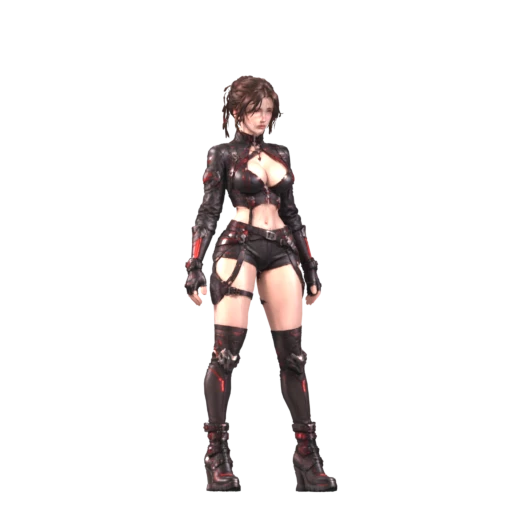
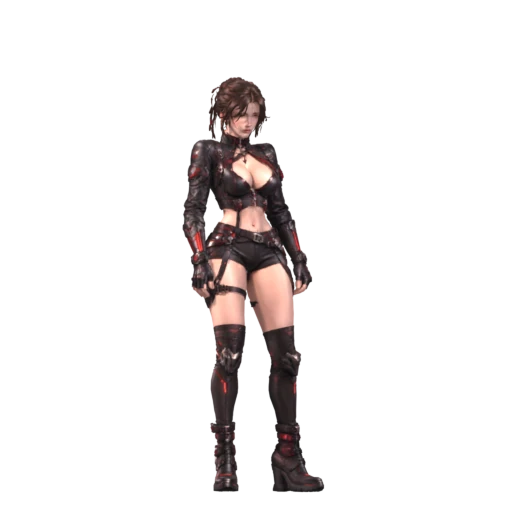
feat(wardrobe): beş karakter oyuna eklendi
Sis Dedektifi, Jinling Gölgesi, Kızıl Yemin, Neon Kuzgun ve Krom Şerif için
8 yön yürüme/durma kareleri ve 360° dönüş render edildi; hepsi markette
satın alınabilir ve gardıropta giyilebilir.

Changed region(s): [[0.3438, 0.125, 0.6562, 0.9688]]

diff --git a/frontend/src/config/outfits.ts b/frontend/src/config/outfits.ts
@@ -36,7 +36,7 @@ export const OUTFITS: Outfit[] = [
     description: 'Uzun palto, fötr şapka ve cebinde saat. Sisli sokaklarda hiçbir ayrıntı gözünden kaçmaz.',
     price: 700,
     rarity: 'rare',
-    ready: false,
+    ready: true,
   },
   {
     id: 'china_girl',
@@ -45,7 +45,7 @@ export const OUTFITS: Outfit[] = [
     description: 'Erik çiçeği desenli ipek, altın püsküller. Tapınak avlusunda adımları duyulmaz.',
     price: 900,
     rarity: 'rare',
-    ready: false,
+    ready: true,
   },
   {
     id: 'fantastic_girl',
@@ -54,7 +54,7 @@ export const OUTFITS: Outfit[] = [
     description: 'Deri korse, işlemeli kolluklar ve dize kadar çizmeler. Verdiği sözü kılıcıyla tutar.',
     price: 900,
     rarity: 'rare',
-    ready: false,
+    ready: true,
   },
   {
     id: 'cyber_girl',
@@ -63,7 +63,7 @@ export const OUTFITS: Outfit[] = [
     description: 'Kızıl ışıklı zırhlı deri, kemer ve kayışlar. Neon sokaklarda iz bırakmadan dolaşır.',
     price: 1200,
     rarity: 'legendary',
-    ready: false,
+    ready: true,
   },
   {
     id: 'cyber_man',
@@ -72,7 +72,7 @@ export const OUTFITS: Outfit[] = [
     description: 'Işıklı trençkot, krom eldivenler ve kovboy şapkası. Şehrin kanunu ondan sorulur.',
     price: 1200,
     rarity: 'legendary',
-    ready: false,
+    ready: true,
   },
 ];
 
